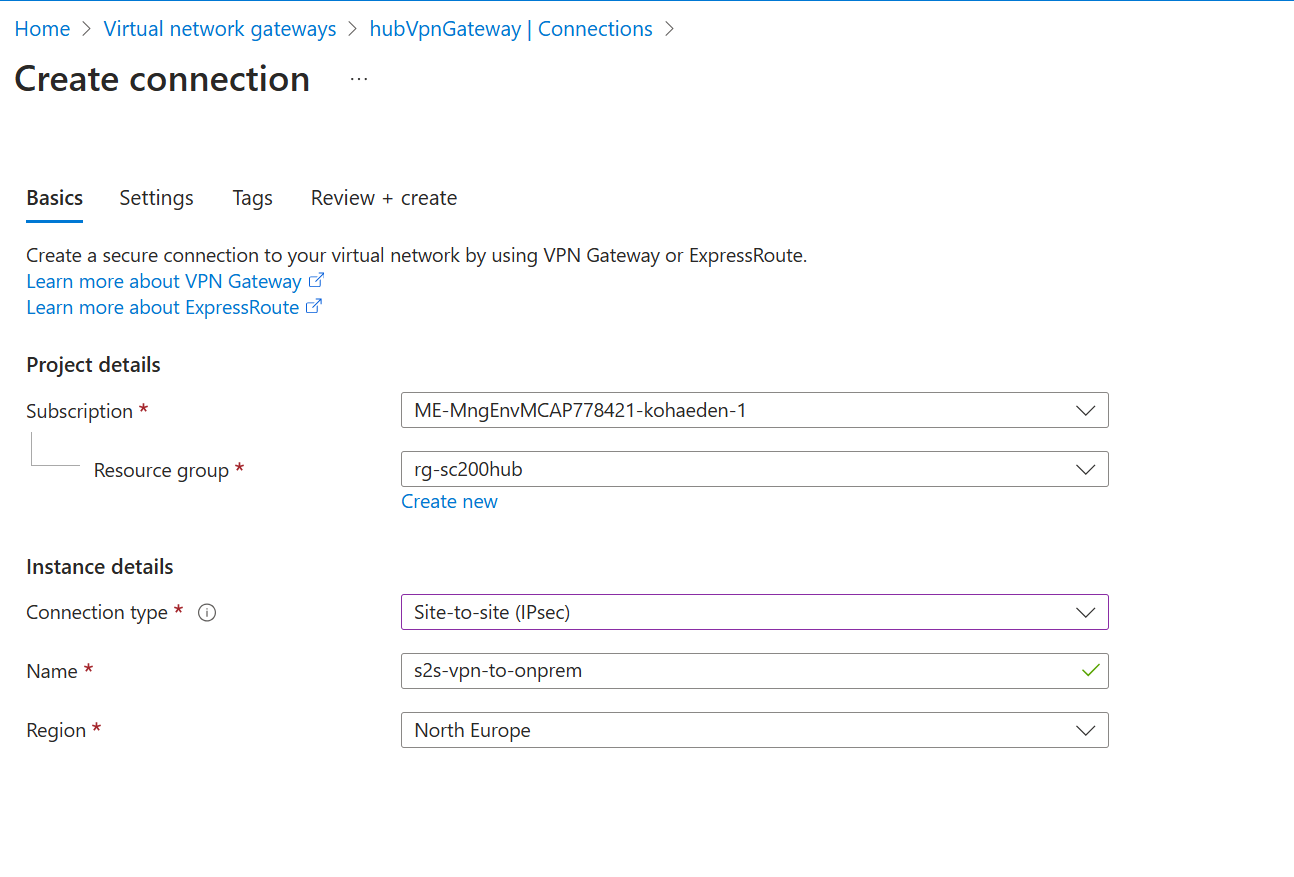
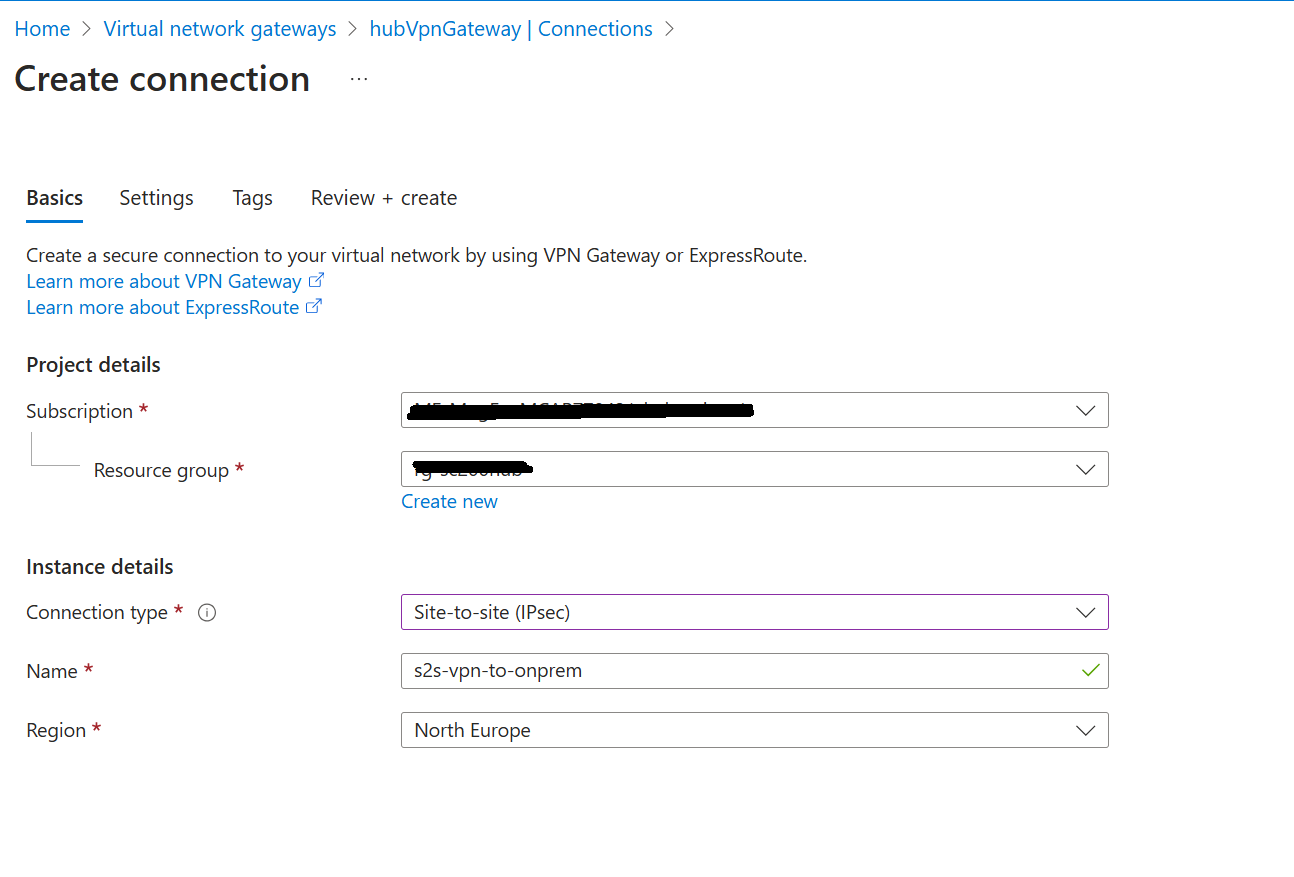
add screenshots

Changed region(s): [[0.3091, 0.4618, 0.5873, 0.4926], [0.3091, 0.5234, 0.4328, 0.5542]]

diff --git a/demoguide-s2svpn/README.md b/demoguide-s2svpn/README.md
@@ -25,6 +25,11 @@ With the local network gateway in place, you can now create the S2S VPN tunnel o
 2. Select the newly created local network gateway.
 3. Assign a shared key for the VPN tunnel.
 
+![create s2s demo screenshot](https://github.com/koenraadhaedens/azd-nestedhv-dc-rtr/blob/main/demoguide-s2svpn/media/Screenshots2svpninazure.png)
+
+![create s2s settings demo screenshot](https://github.com/koenraadhaedens/azd-nestedhv-dc-rtr/blob/main/demoguide-s2svpn/media/Screenshots2svpninazuresettings.png)
+
+
 ### Step 5: Configure the ONPREM-RTR VM
 After creating the VPN tunnel, go to the ONPREM-RTR VM and follow these steps:
 1. Open Server Manager.
